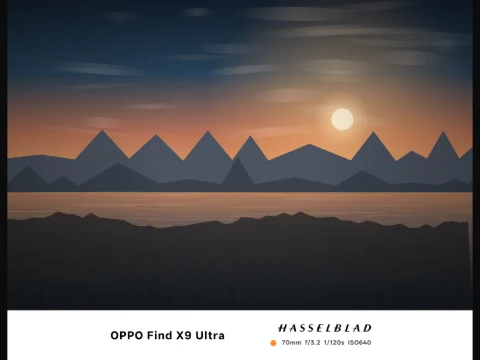
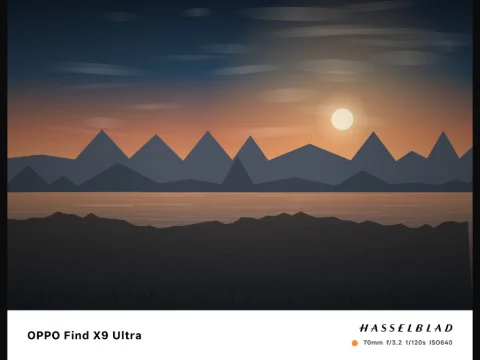
fix(stock): keep Hasselblad text at the vendor edges
- footer row width follows the 560 design instead of a centered 360 row
- border slider now changes only the band height; type/logo anchors stay put

Changed region(s): [[0.5625, 0.8861, 0.9375, 0.9778], [0.0312, 0.9167, 0.4688, 0.9472]]

diff --git a/src/renderer/src/core/system/layout.ts b/src/renderer/src/core/system/layout.ts
@@ -841,20 +841,36 @@ export function stockReferenceWidth(style: StockStyle, env: Pick<StockEnv, 'pw' 
   // the Find X6 Pro sample), while the 3:4 portrait card is the 360-unit design
   // (512px band on a 3072-wide photo). Keying on orientation matches both
   // vendor originals; every other style keeps its declared reference width.
-  const base = style.id === 'oppo-gallery:hassel_style_1' && env.ph > env.pw ? 360 : style.referenceWidth
-  // Per-style user scale (100 = vendor). Larger scale ⇒ smaller reference width
-  // ⇒ thicker band and bigger type, all together. Scoped by style id so the
-  // flat params bag cannot leak one card's size into another.
-  const raw = Number(env.params[`stockScale:${style.id}`])
-  const scale = Number.isFinite(raw) && raw > 0 ? raw / 100 : 1
-  return base / scale
+  return style.id === 'oppo-gallery:hassel_style_1' && env.ph > env.pw ? 360 : style.referenceWidth
+}
+
+function withStockBandScale(style: StockStyle, env: Pick<StockEnv, 'params'>): StockStyle {
+  // User control changes only the vertical frame bands (white border height).
+  // Content sizes and horizontal anchors stay untouched, so the text never
+  // slides toward the centre when the border gets thinner/thicker.
+  const raw = Number(env.params[`stockBandScale:${style.id}`])
+  if (!Number.isFinite(raw) || raw <= 0) return style
+  const scale = Math.max(0.4, Math.min(2, raw / 100))
+  if (scale === 1) return style
+  const vertical = (b: StockStyle['bands'][number]) => b.direction === 'top' || b.direction === 'bottom'
+  if (!style.bands.some(vertical)) return style
+  return {
+    ...style,
+    margins: {
+      ...style.margins,
+      top: style.margins.top * scale,
+      bottom: style.margins.bottom * scale
+    },
+    bands: style.bands.map((b) => (vertical(b) ? { ...b, thickness: (b.thickness ?? 0) * scale } : b))
+  }
 }
 
 export function solveStockLayout(style: StockStyle, env: StockEnv): StockLayout {
-  const baseW = stockReferenceWidth(style, env)
+  const framed = withStockBandScale(style, env)
+  const baseW = stockReferenceWidth(framed, env)
   const ratio = env.ph / env.pw
   const basePhotoH = baseW * ratio
-  const m = style.margins
+  const m = framed.margins
   const W = m.left + baseW + m.right
   const H = m.top + basePhotoH + m.bottom
   const photo: StockRect = { x: m.left, y: m.top, w: baseW, h: basePhotoH }
@@ -874,7 +890,7 @@ export function solveStockLayout(style: StockStyle, env: StockEnv): StockLayout 
   // the vendor's own position). Both this and the slider branch are skipped at
   // the default, so the untouched solve stays byte-identical.
   const axes = stockAnchorAxes(env.params.stockAnchor)
-  const bands = style.bands.map((band, bi) => {
+  const bands = framed.bands.map((band, bi) => {
     const box = bandBox(style, band, photo, W, H)
     const bandPath = `b${bi}`
     let placed: PlacedBand

diff --git a/src/renderer/src/components/Inspector.tsx b/src/renderer/src/components/Inspector.tsx
@@ -665,8 +665,8 @@ function LayoutEditor() {
   const stockMovable =
     isSystemCamera &&
     !!stockStyle?.bands.some((b) => b.direction === 'overlay' || !!b.rotation)
-  const stockBanded = Boolean(stockStyle?.bands.some((b) => b.direction !== 'overlay'))
-  const stockScaleKey = stockStyle ? `stockScale:${stockStyle.id}` : ''
+  const stockBandBanded = Boolean(stockStyle?.bands.some((b) => b.direction === 'top' || b.direction === 'bottom'))
+  const stockBandScaleKey = stockStyle ? `stockBandScale:${stockStyle.id}` : ''
   // 'vendor' = the style's own committed position (pixel-identical default).
   const stockAnchor = String(design.params.stockAnchor ?? 'vendor')
   const hasStyleLayoutControls = (controlsFor(design)?.views ?? []).some(
@@ -765,22 +765,22 @@ function LayoutEditor() {
           </div>
         ) : null}
       </Section>
-      ) : stockBanded ? null : (
+      ) : stockBandBanded ? null : (
         <p className="hint-note">这个版式没有可调的布局参数；文字内容在「文字」页调整。</p>
       )}
 
-      {stockBanded ? (
+      {stockBandBanded ? (
         <Section title="边框大小" hint="100% = 厂商原版比例">
           <Slider
-            label="整体大小"
-            hint="白边、文字、Logo 一起缩放"
-            value={Number(design.params[stockScaleKey] ?? 100)}
-            min={60}
-            max={150}
+            label="白边高度"
+            hint="只改白边，文字/Logo 不动"
+            value={Number(design.params[stockBandScaleKey] ?? 100)}
+            min={50}
+            max={200}
             step={1}
             suffix="%"
-            onChange={(v) => setParam(stockScaleKey, v)}
-            onReset={() => resetParam(stockScaleKey)}
+            onChange={(v) => setParam(stockBandScaleKey, v)}
+            onReset={() => resetParam(stockBandScaleKey)}
           />
         </Section>
       ) : null}

diff --git a/src/renderer/src/core/system/styles.ts b/src/renderer/src/core/system/styles.ts
@@ -22,7 +22,7 @@ const HASSEL: StockStyle = {
         {
           kind: 'group',
           orientation: 'row',
-          width: 360,
+          width: 560,
           height: 60,
           gravity: 'center',
           children: [
